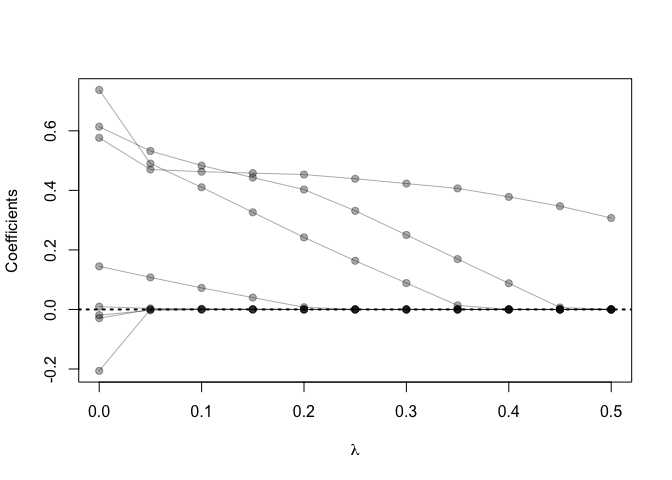
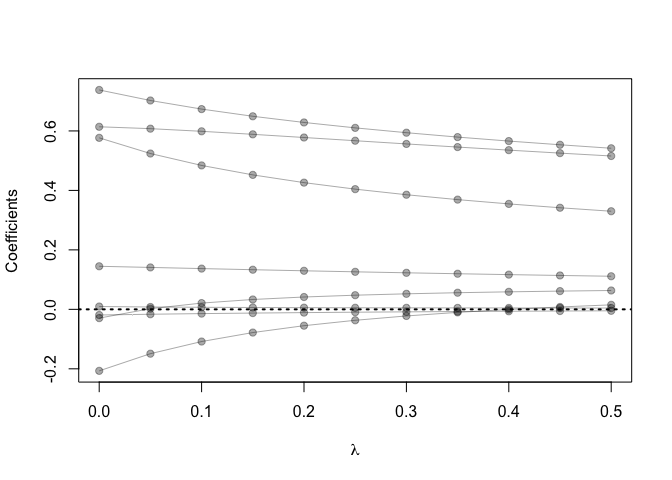
commit

diff --git a/HW 2/Homework-2.md b/HW 2/Homework-2.md
@@ -59,7 +59,7 @@ cor(prostate)
     ## lpsa     0.548813175  0.36898681 0.42231586  1.00000000 -0.033889743
     ## train   -0.037427296 -0.04417146 0.10051637 -0.03388974  1.000000000
 
-## split prostate into testing and training subsets
+# Split prostate into testing and training subsets
 
 ``` r
 prostate_train <- prostate %>%
@@ -97,7 +97,7 @@ prostate_test <- prostate %>%
   select(-train)
 ```
 
-# fit the model
+# Fit the model
 
 ``` r
 fit <- lm(lpsa ~ ., data=prostate_train)
@@ -121,7 +121,7 @@ error(prostate_test, fit)
 form  <- lpsa ~ 0 + lweight + age + lbph + lcp + pgg45 + lcavol + svi + gleason
 x_inp <- model.matrix(form, data=prostate_train)
 y_out <- prostate_train$lpsa
-fit <- glmnet(x=x_inp, y=y_out, lambda=seq(0.5, 0, -0.05))
+fit <- glmnet(x=x_inp, y=y_out, lambda=seq(0.5, 0, -0.05),alpha = 0)
 print(fit$beta)
 ```
 
@@ -129,24 +129,33 @@ print(fit$beta)
 
     ##    [[ suppressing 11 column names 's0', 's1', 's2' ... ]]
 
-    ##                                                                        
-    ## lweight .        0.006728858 0.08802267 0.16919400 0.25029493 0.3313693
-    ## age     .        .           .          .          .          .        
-    ## lbph    .        .           .          .          .          .        
-    ## lcp     .        .           .          .          .          .        
-    ## pgg45   .        .           .          .          .          .        
-    ## lcavol  0.307213 0.346980360 0.37816116 0.40662942 0.42281361 0.4390147
-    ## svi     .        .           .          0.01374089 0.08863503 0.1635049
-    ## gleason .        .           .          .          .          .        
-    ##                                                                      
-    ## lweight 0.4026885474 0.44291760 0.483216170  0.532255854  0.613958878
-    ## age     .            .          .           -0.002935469 -0.019001448
-    ## lbph    0.0074378091 0.03989478 0.072310764  0.107605677  0.144874839
-    ## lcp     .            .          .            .           -0.206198792
-    ## pgg45   0.0001593199 0.00120135 0.002243793  0.003462562  0.009456602
-    ## lcavol  0.4532475323 0.45792315 0.462701625  0.470160503  0.576448246
-    ## svi     0.2420884074 0.32631404 0.410311213  0.490043681  0.737284632
-    ## gleason .            .          .            .           -0.029295150
+    ##                                                                          
+    ## lweight  0.515697286  0.525400575  0.5354170019  0.545775814  0.556311619
+    ## age     -0.004889276 -0.005637483 -0.0064660393 -0.007390172 -0.008436051
+    ## lbph     0.111264821  0.113946024  0.1167762533  0.119749176  0.122883708
+    ## lcp      0.015168605  0.007943168 -0.0003765233 -0.010208916 -0.022217776
+    ## pgg45    0.004390331  0.004515174  0.0046637167  0.004840594  0.005062742
+    ## lcavol   0.329947512  0.341656357  0.3545916725  0.369018247  0.385454679
+    ## svi      0.541710372  0.553480497  0.5659053246  0.579302886  0.594067995
+    ## gleason  0.063402833  0.061373728  0.0588793776  0.055915056  0.052224299
+    ##                                                                         
+    ## lweight  0.567083034  0.577904675  0.588577079  0.598728953  0.607640794
+    ## age     -0.009617693 -0.010968049 -0.012524059 -0.014335139 -0.016468427
+    ## lbph     0.126178477  0.129642591  0.133272193  0.137050755  0.140935937
+    ## lcp     -0.036796539 -0.054965954 -0.078076538 -0.108262379 -0.149116876
+    ## pgg45    0.005340520  0.005702607  0.006189804  0.006872589  0.007882003
+    ## lcavol   0.404236189  0.426145259  0.452197566  0.483962606  0.524027412
+    ## svi      0.610303587  0.628512630  0.649279407  0.673464940  0.702375090
+    ## gleason  0.047591554  0.041501934  0.033149650  0.021047902  0.002236316
+    ##                     
+    ## lweight  0.613980850
+    ## age     -0.019008894
+    ## lbph     0.144825646
+    ## lcp     -0.206830251
+    ## pgg45    0.009471377
+    ## lcavol   0.576765946
+    ## svi      0.737805454
+    ## gleason -0.029463345
 
 # Create a path diagram of the ridge regression analysis
 
@@ -163,14 +172,14 @@ for(i in 1:nrow(fit$beta)) {
 abline(h=0, lty=3, lwd=2)
 ```
 
-![](Homework-2_files/figure-gfm/unnamed-chunk-7-1.png)<!-- --> \# Create
-a figure that shows the training and test error associated with ridge
-regression as a function of lambda
+![](Homework-2_files/figure-gfm/unnamed-chunk-7-1.png)<!-- -->
+
+# Create a figure that shows the training and test error associated with ridge regression as a function of lambda
 
 ``` r
 error <- function(dat, fit, lam, form, loss=L2_loss) {
   x_inp <- model.matrix(form, data=dat)
-  y_out <- dat$lcavol
+  y_out <- dat$lpsa
   y_hat <- predict(fit, newx=x_inp, s=lam)  ## see predict.elnet
   mean(loss(y_out, y_hat))
 }
@@ -200,21 +209,30 @@ colnames(fit$beta) <- paste('lam =', fit$lambda)
 print(fit$beta %>% as.matrix)
 ```
 
-    ##         lam = 0.5  lam = 0.45  lam = 0.4 lam = 0.35  lam = 0.3 lam = 0.25
-    ## lweight  0.000000 0.006728858 0.08802267 0.16919400 0.25029493  0.3313693
-    ## age      0.000000 0.000000000 0.00000000 0.00000000 0.00000000  0.0000000
-    ## lbph     0.000000 0.000000000 0.00000000 0.00000000 0.00000000  0.0000000
-    ## lcp      0.000000 0.000000000 0.00000000 0.00000000 0.00000000  0.0000000
-    ## pgg45    0.000000 0.000000000 0.00000000 0.00000000 0.00000000  0.0000000
-    ## lcavol   0.307213 0.346980360 0.37816116 0.40662942 0.42281361  0.4390147
-    ## svi      0.000000 0.000000000 0.00000000 0.01374089 0.08863503  0.1635049
-    ## gleason  0.000000 0.000000000 0.00000000 0.00000000 0.00000000  0.0000000
-    ##            lam = 0.2 lam = 0.15   lam = 0.1   lam = 0.05      lam = 0
-    ## lweight 0.4026885474 0.44291760 0.483216170  0.532255854  0.613958878
-    ## age     0.0000000000 0.00000000 0.000000000 -0.002935469 -0.019001448
-    ## lbph    0.0074378091 0.03989478 0.072310764  0.107605677  0.144874839
-    ## lcp     0.0000000000 0.00000000 0.000000000  0.000000000 -0.206198792
-    ## pgg45   0.0001593199 0.00120135 0.002243793  0.003462562  0.009456602
-    ## lcavol  0.4532475323 0.45792315 0.462701625  0.470160503  0.576448246
-    ## svi     0.2420884074 0.32631404 0.410311213  0.490043681  0.737284632
-    ## gleason 0.0000000000 0.00000000 0.000000000  0.000000000 -0.029295150
+    ##            lam = 0.5   lam = 0.45     lam = 0.4   lam = 0.35    lam = 0.3
+    ## lweight  0.515697286  0.525400575  0.5354170019  0.545775814  0.556311619
+    ## age     -0.004889276 -0.005637483 -0.0064660393 -0.007390172 -0.008436051
+    ## lbph     0.111264821  0.113946024  0.1167762533  0.119749176  0.122883708
+    ## lcp      0.015168605  0.007943168 -0.0003765233 -0.010208916 -0.022217776
+    ## pgg45    0.004390331  0.004515174  0.0046637167  0.004840594  0.005062742
+    ## lcavol   0.329947512  0.341656357  0.3545916725  0.369018247  0.385454679
+    ## svi      0.541710372  0.553480497  0.5659053246  0.579302886  0.594067995
+    ## gleason  0.063402833  0.061373728  0.0588793776  0.055915056  0.052224299
+    ##           lam = 0.25    lam = 0.2   lam = 0.15    lam = 0.1   lam = 0.05
+    ## lweight  0.567083034  0.577904675  0.588577079  0.598728953  0.607640794
+    ## age     -0.009617693 -0.010968049 -0.012524059 -0.014335139 -0.016468427
+    ## lbph     0.126178477  0.129642591  0.133272193  0.137050755  0.140935937
+    ## lcp     -0.036796539 -0.054965954 -0.078076538 -0.108262379 -0.149116876
+    ## pgg45    0.005340520  0.005702607  0.006189804  0.006872589  0.007882003
+    ## lcavol   0.404236189  0.426145259  0.452197566  0.483962606  0.524027412
+    ## svi      0.610303587  0.628512630  0.649279407  0.673464940  0.702375090
+    ## gleason  0.047591554  0.041501934  0.033149650  0.021047902  0.002236316
+    ##              lam = 0
+    ## lweight  0.613980850
+    ## age     -0.019008894
+    ## lbph     0.144825646
+    ## lcp     -0.206830251
+    ## pgg45    0.009471377
+    ## lcavol   0.576765946
+    ## svi      0.737805454
+    ## gleason -0.029463345
